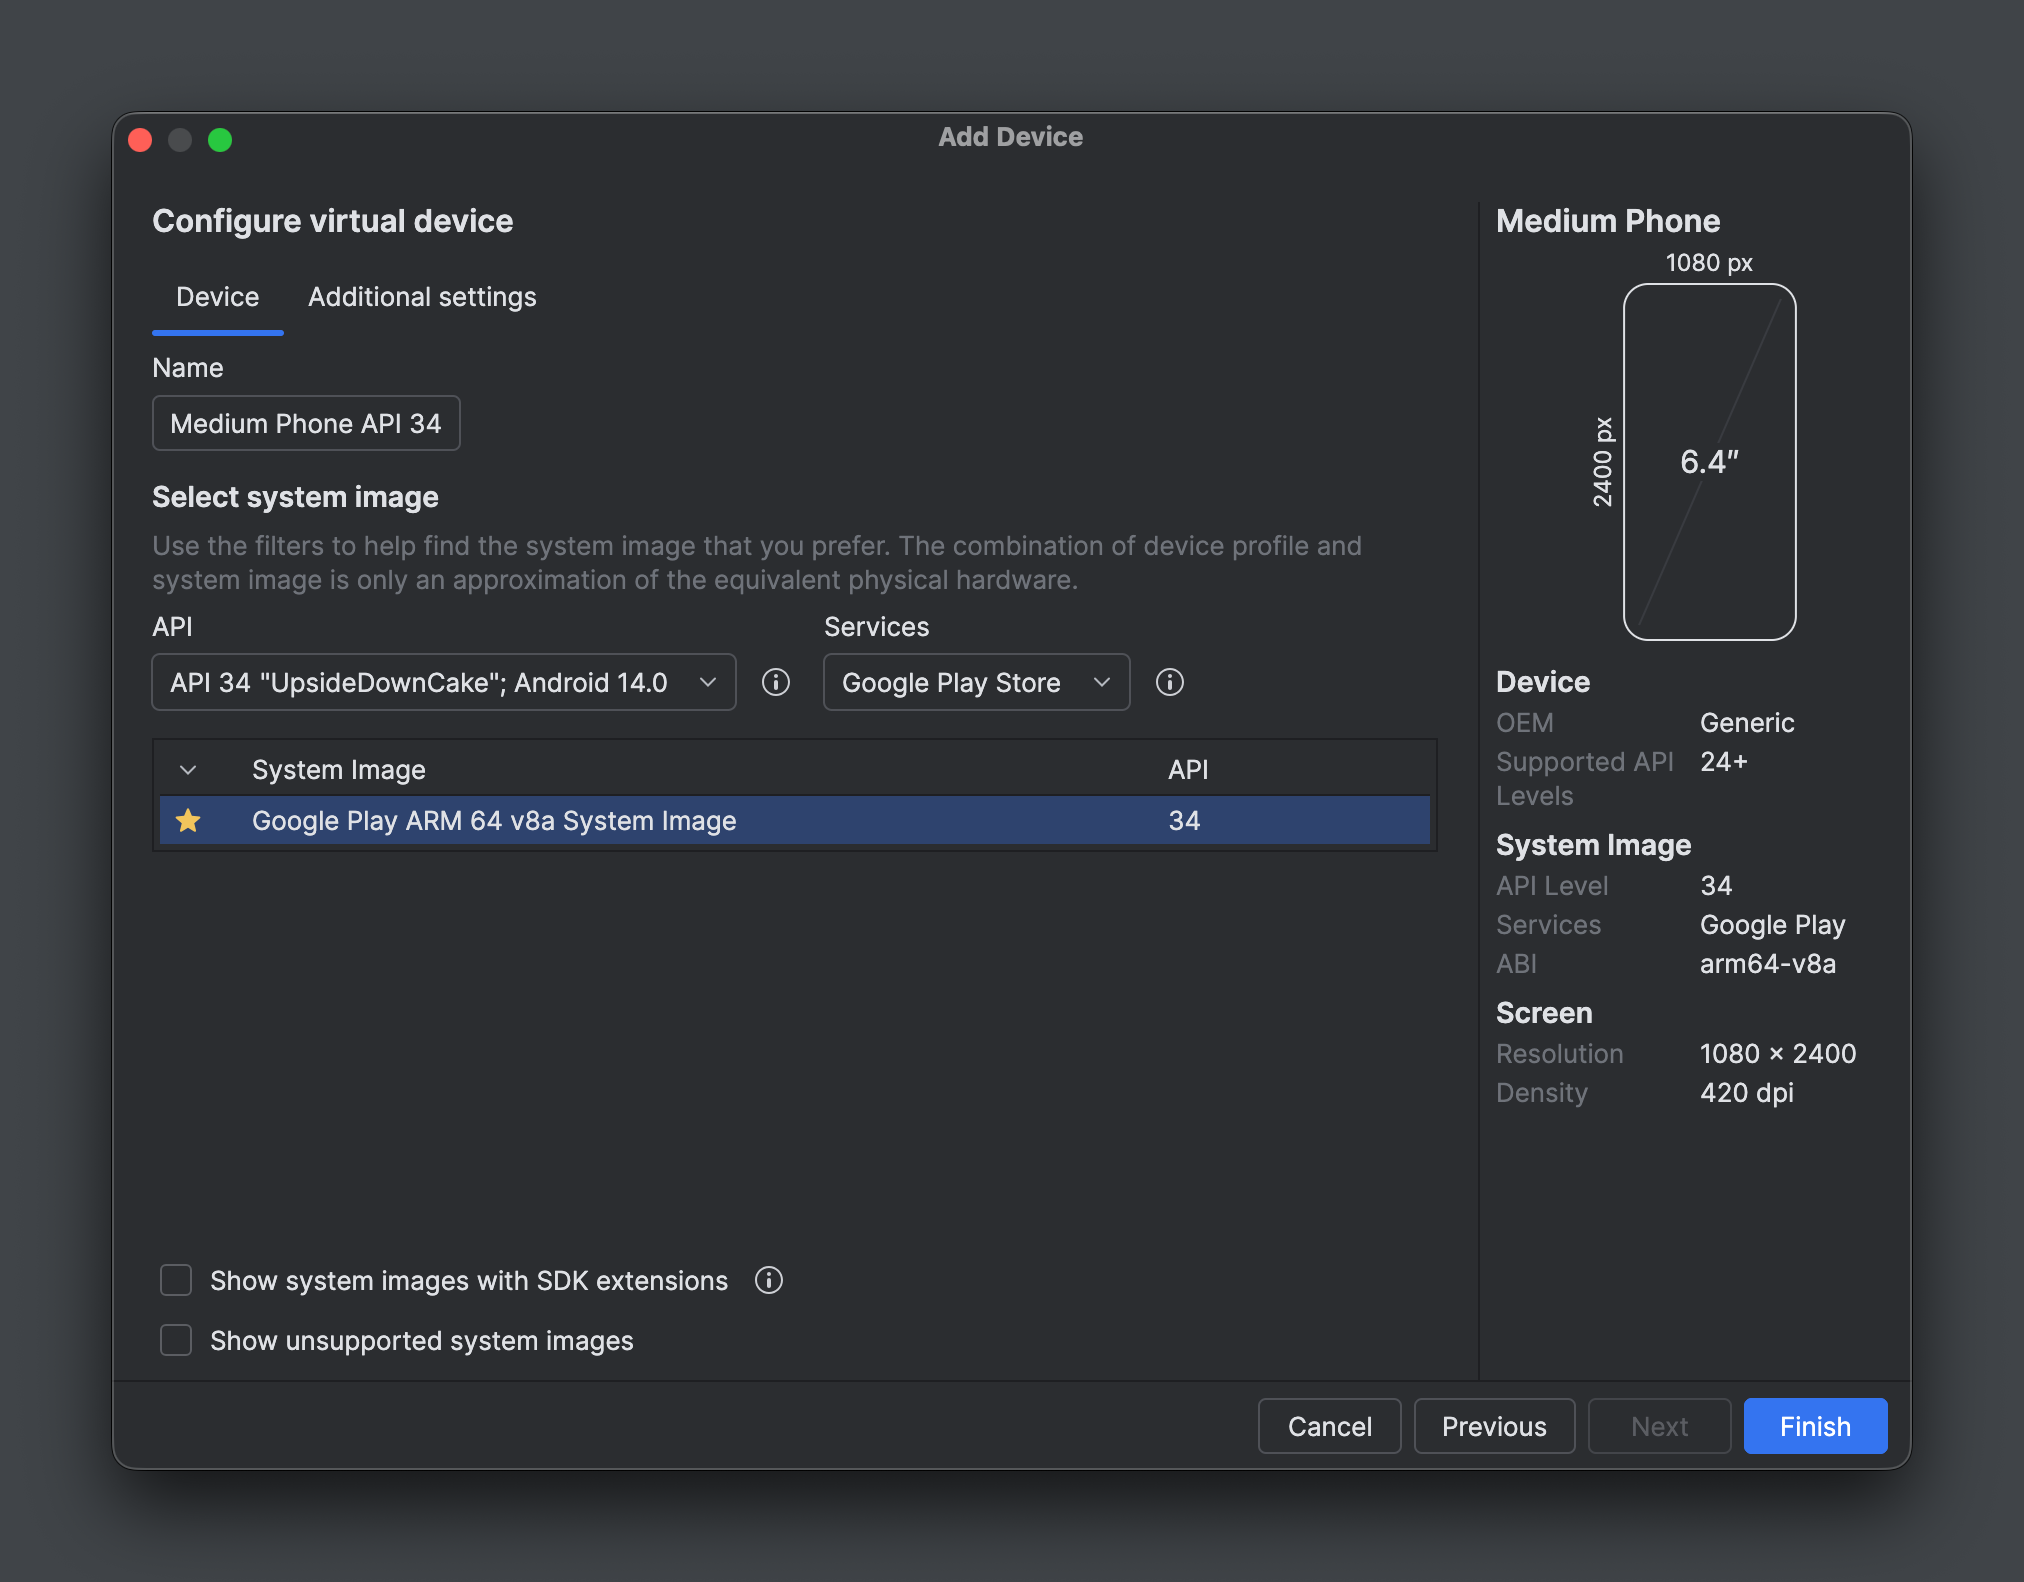
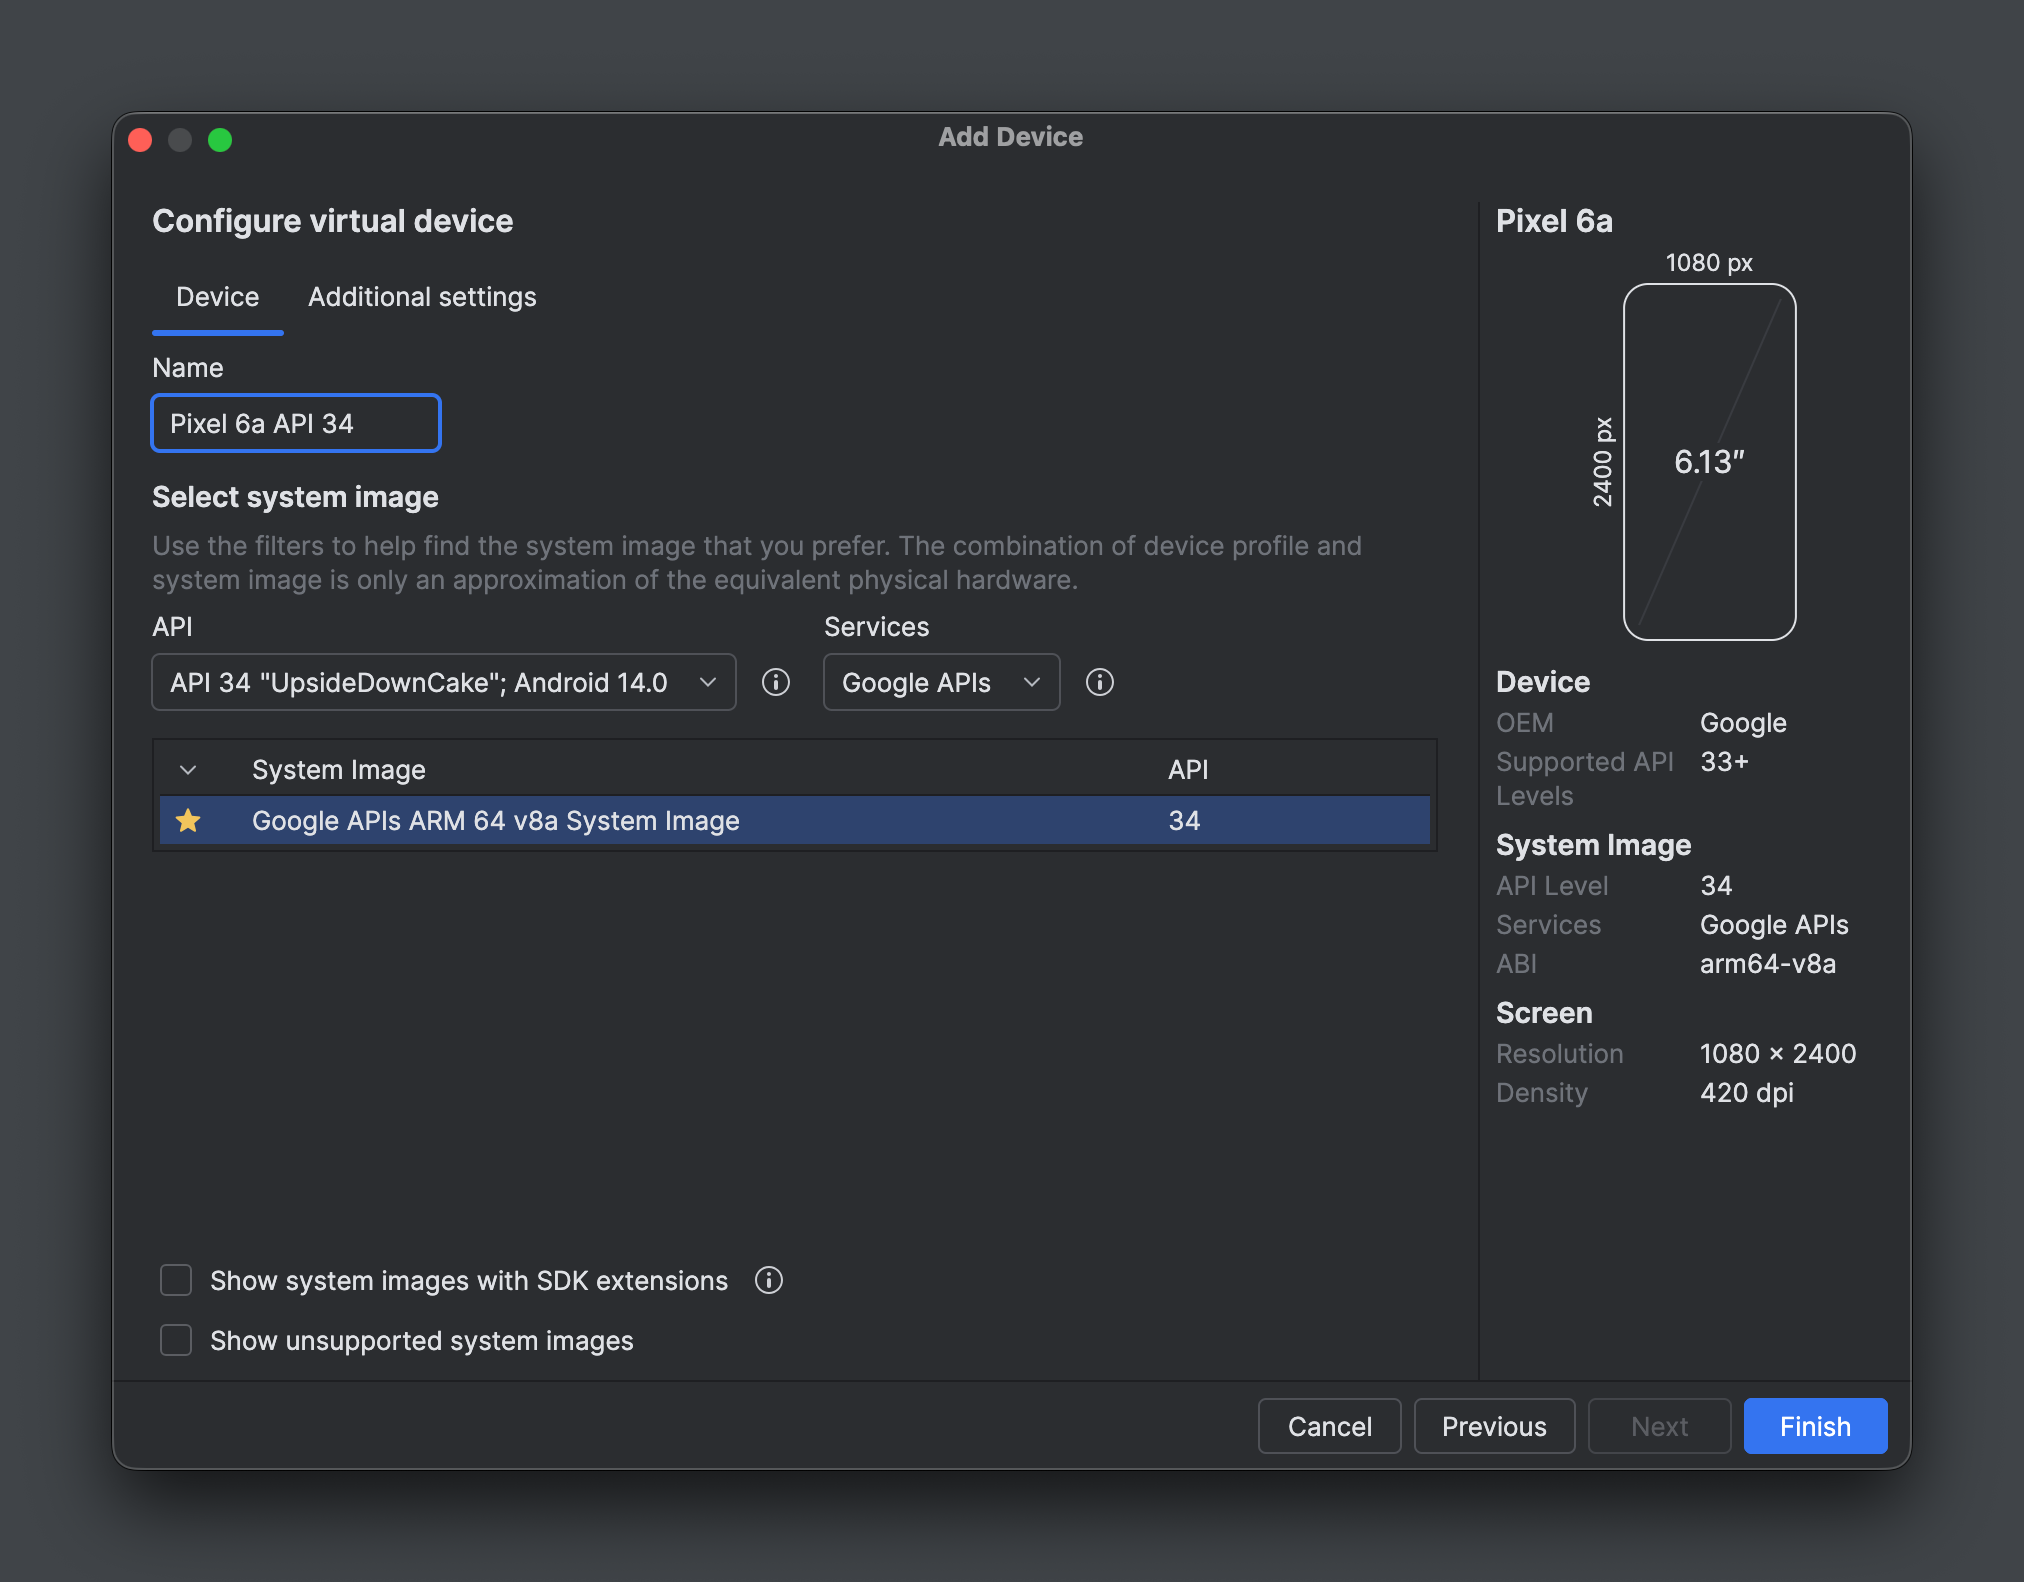
Fix developer handbook mobile and docs guides

diff --git a/docs/handbook/mobile/getting-started.md b/docs/handbook/mobile/getting-started.md
@@ -44,6 +44,7 @@ nvm reads the `.nvmrc` file in the project root to determine the Node.js version
 
 ```shell
 nvm install
+nvm use
 nvm current # Verify version
 ```
 
@@ -51,7 +52,8 @@ nvm current # Verify version
 
 ```powershell
 $ver = Get-Content .nvmrc
-nvm install $ver
+nvm install $ver # This command will output a command that you have to run in the next step
+nvm use [VERSION] # Run the command that was outputted by the previous command
 nvm current # Verify version
 ```
 
@@ -82,7 +84,8 @@ Upon opening Android Studio for the first time, go through the installation proc
 Android Virtual Device (AVD) when prompted.
 
 Additionally, you will need to install the Android SDK Build Tools and Android SDK Platform Tools.
-See [this guide](https://docs.expo.dev/workflow/android-studio-emulator/) for more information.
+See [this guide](https://docs.expo.dev/workflow/android-studio-emulator/) for more information. It is crucial that you
+install all the Android SDK components shown in the guide.
 
 !!! note "Windows"
 
@@ -96,11 +99,32 @@ See [this guide](https://docs.expo.dev/workflow/android-studio-emulator/) for mo
     setx PATH "$env:PATH;$Sdk\platform-tools;$Sdk\emulator"
     ```
 
+Under `Settings | Languages & Frameworks | Android SDK | SDK Platforms`, you also need to mark the Android 14 components
+matching the Android 15 components shown in the guide. In total, you should have the following components installed:
+
+- `Android 15.0 ("VanillaIceCream")`
+    - `Android SDK Platform 35`
+    - `Sources for Android 35`
+    - `Google APIs Intel x86_64 Atom System Image` or `Google APIs ARM 64 v8a System Image` (depends on your
+      architecture)
+    - `Google Play Intel x86_64 Atom System Image` or `Google Play ARM 64 v8a System Image` (depends on your
+      architecture)
+    - `Pre-Release 16 KB Page Size Google Play Intel x86_64 Atom System Image` or
+      `Pre-Release 16 KB Page Size Google Play ARM 64 v8a System Image` (depends on your
+      architecture)
+- `Android 14.0 ("UpsideDownCake")`
+    - `Android SDK Platform 34`
+    - `Sources for Android 34`
+    - `Google APIs Intel x86_64 Atom System Image` or `Google APIs ARM 64 v8a System Image` (depends on your
+      architecture)
+    - `Google Play Intel x86_64 Atom System Image` or `Google Play ARM 64 v8a System Image` (depends on your
+      architecture)
+
 Open the `Device Manager` tool window, then click on `Add a new device` and select `Create Virtual Device`.
 
 ![Visually show where to click](../../assets/mobile/create-device.png){: style="height:250px"}
 
-Then select `Medium Phone` and click `Next`. Name it `Medium Phone API 34`, select `API 34 "UpsideDownCake"`, select the
+Then select `Pixel 6a` and click `Next`. Name it `Pixel 6a API 34`, select `API 34 "UpsideDownCake"`, select the
 Google Play image and click `Finish`.
 
 ![Device configuration](../../assets/mobile/device-config.png){: style="height:500px"}
@@ -118,11 +142,20 @@ using your credentials. Run `npx expo whoami` to verify that you are logged in.
 
 Run `npx expo start`. When the QR code appears:
 
-- Press `a` to open the default emulator.
-- Press `shift + a` to choose from all available emulators. Choose the emulator you have created
-  (`Medium Phone API 34`).
+1. Press `s` to switch to Expo Go.
+2. Press `shift + a` to choose from all available emulators. Choose the emulator you have created (`Pixel 6a API 34`).
 
-A window should now pop up with the emulator.
+- Or press `a` to open the default emulator.
+
+A window should now pop up with the emulator. The first time you run the app, it will take a while to download Expo Go
+to the emulator.
+
+!!! warning "Windows"
+
+    If you have trouble running the app, get some connection or Metro issues, open a new PowerShell tab and run
+    `adb reverse --list`. If the output is empty, or shows connection errors, run `adb reverse tcp:8081 tcp:8081`. The
+    output of the latter command should now show that the port is being forwarded. Go back to the emulator and try to
+    refresh the app.
 
 !!! tip
 

diff --git a/docs/handbook/docs/getting-started.md b/docs/handbook/docs/getting-started.md
@@ -1,39 +1,17 @@
-## Set up a Python virtual environment
+## Prerequisites
+
+Download and install uv by following the [official guide](https://docs.astral.sh/uv/getting-started/installation/).
+
+## Run the documentation locally
 
 ```sh
-python -m venv venv
-```
-
-## Activate the virtual environment
-
-On Windows:
-
-```powershell
-venv\Scripts\activate
-```
-
-On macOS/Linux:
-
-```sh
-source venv/bin/activate
-```
-
-## Install dependencies
-
-```bash
-pip install -r requirements.txt
-```
-
-## Preview the documentation locally
-
-```sh
-mkdocs serve
+uv run mkdocs serve
 ```
 
 ## Publish the documentation to GitHub Pages
 
-```
-mkdocs gh-deploy
+```sh
+uv run mkdocs gh-deployss
 ```
 
 ## Documentation Structure
